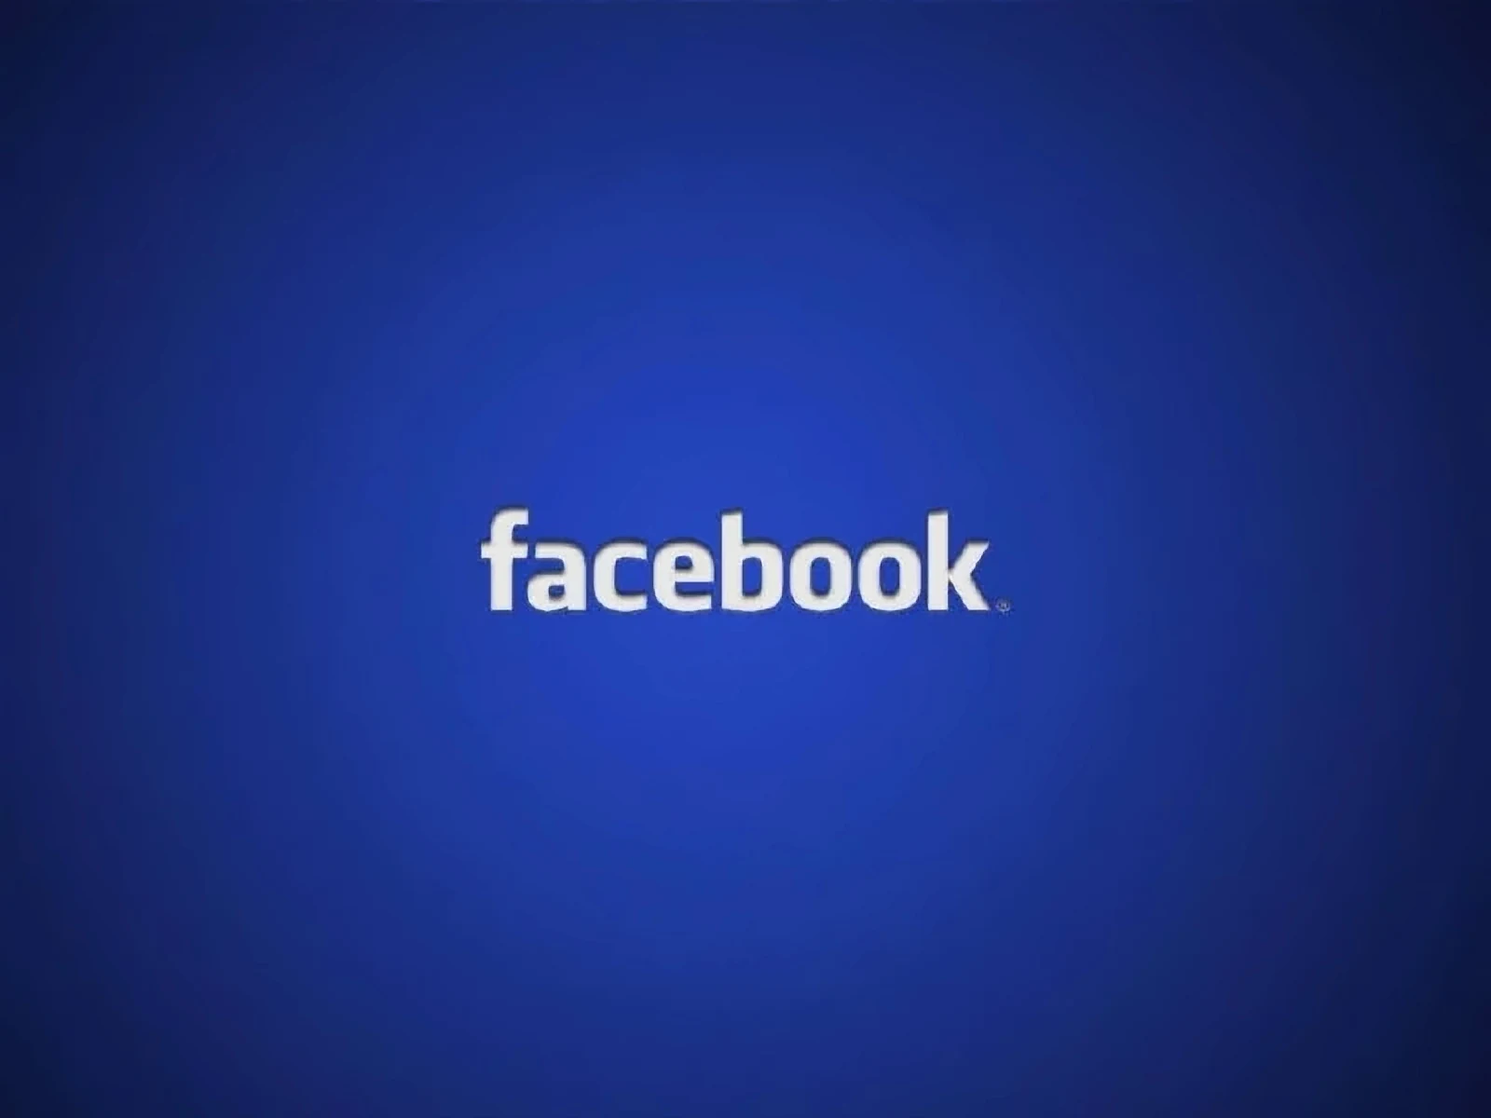
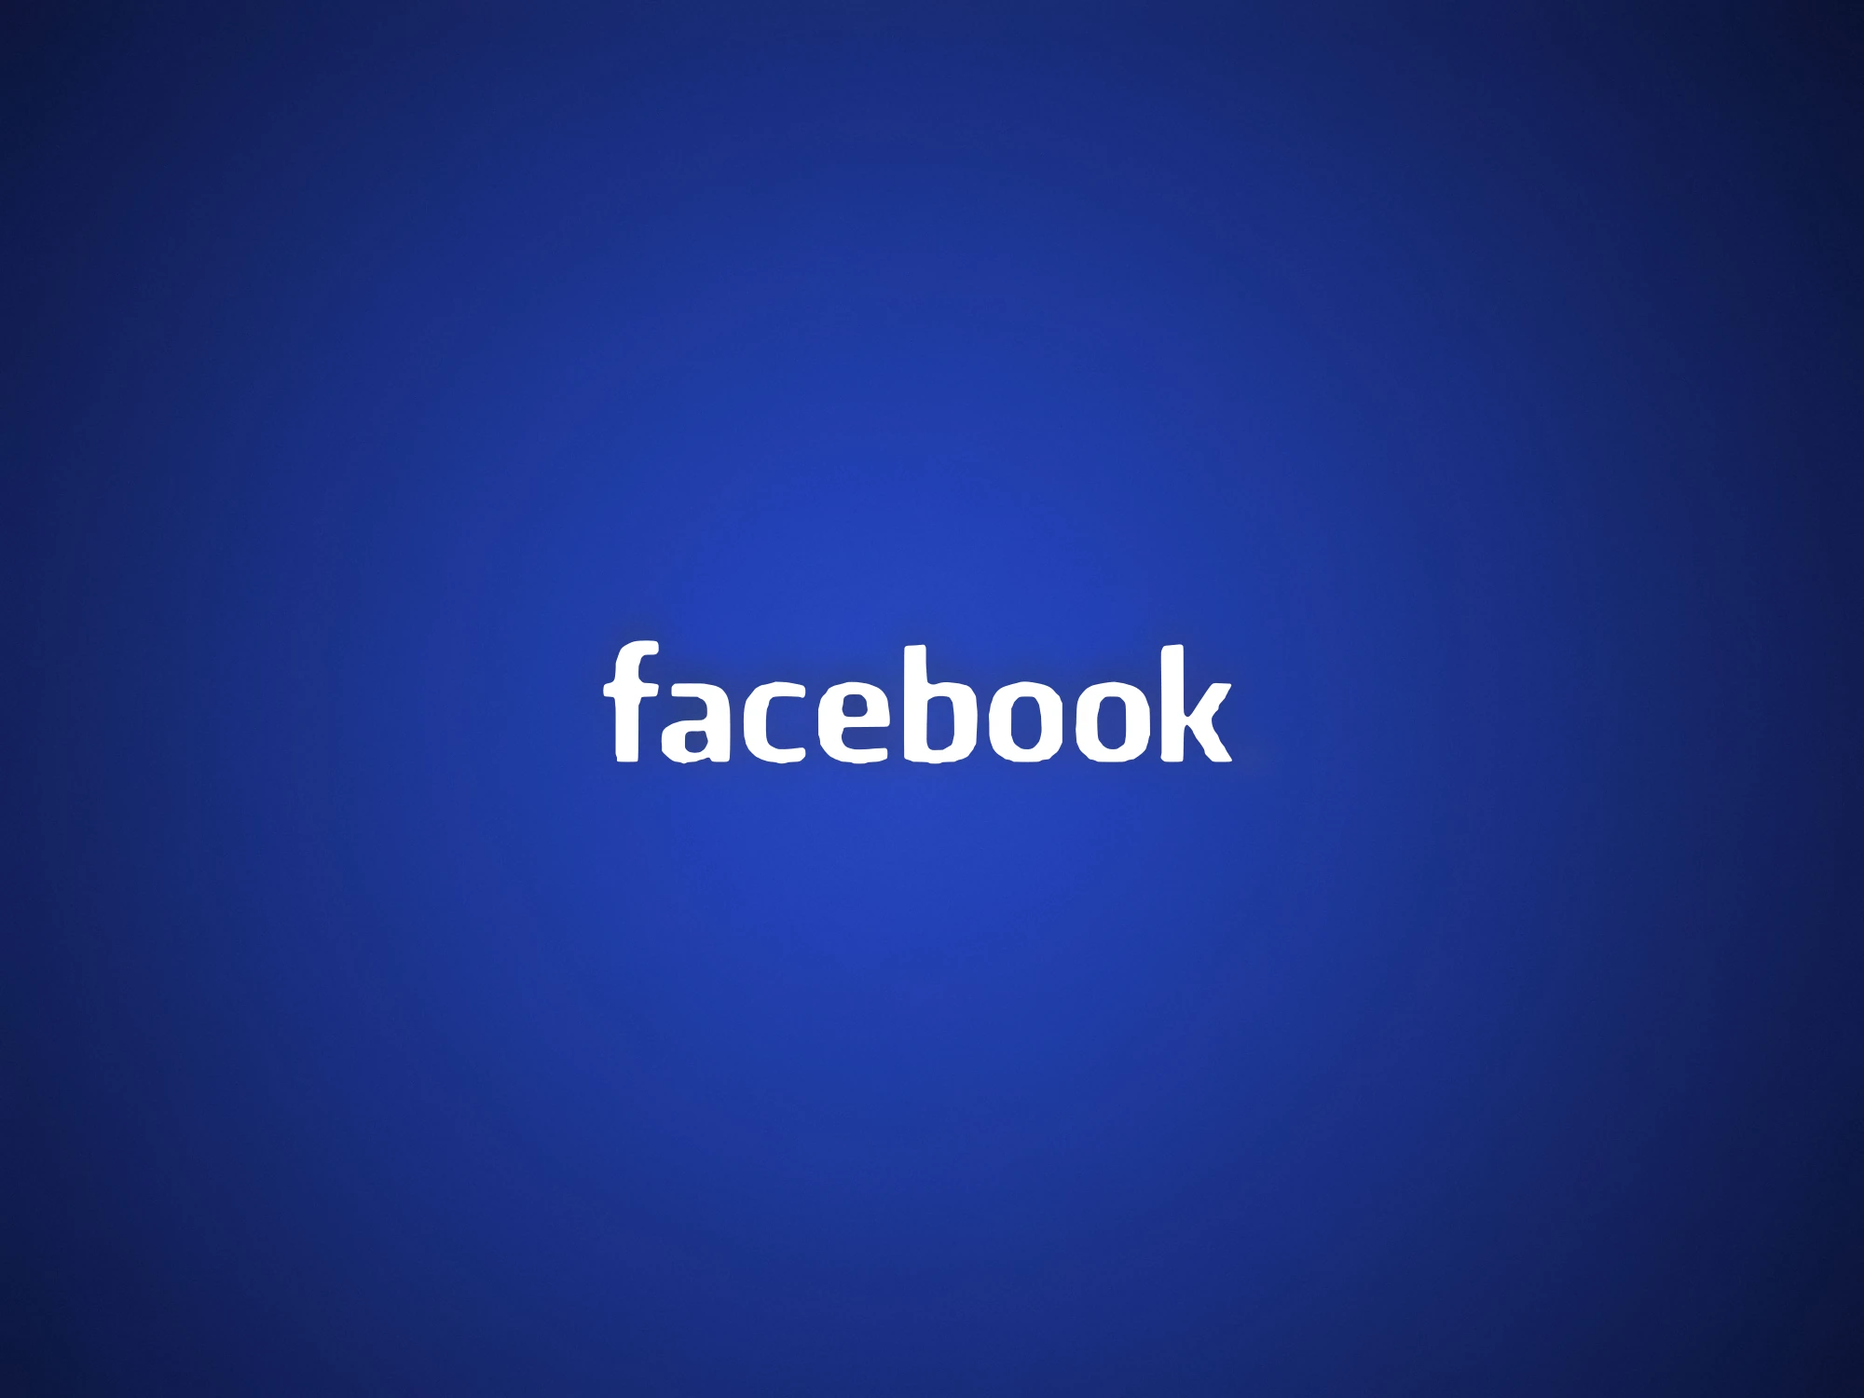
Notas: portadas de Meta y Facebook reconstruidas en limpio a 2000px
Claude-Session: https://claude.ai/code/session_01CMfY411TaWJhc4sofPayks

Changed region(s): [[0.3125, 0.4317, 0.6875, 0.555]]

diff --git a/posts.js b/posts.js
@@ -5,8 +5,8 @@
    img: imagen de portada dentro de assets/
    b: párrafos de la nota completa */
 window.POSTS=[
-  {"id": "meta-muse-wonder-ia", "k": "Noticias", "c": "#FF9D00", "d": "14 oct 2026", "img": "assets/work/nota-meta-muse-wonder-ia-foto500286060.webp?v=hq", "alt": "Portada de La Guayaba Ilustrada sobre el lanzamiento de Muse Wonder de Meta", "cr": "Foto: La Guayaba Ilustrada", "t": "Meta lanza Muse Wonder, su IA más potente, y apuesta por una que te recuerde", "x": "La empresa de Instagram y WhatsApp presentó dos modelos nuevos que prometen resolver tareas largas y acordarse de lo que le importa a cada usuario.", "b": ["Meta presentó el lunes 12 de octubre Muse Wonder y Muse Wonder Full, los dos modelos de inteligencia artificial más avanzados que ha lanzado hasta ahora. Los desarrolló su laboratorio de superinteligencia y son los que moverán a Muse, el agente personal que la compañía estrenó en septiembre en Estados Unidos.", "La gran apuesta es la memoria. Meta asegura que estos modelos retienen y conectan lo que el usuario les va contando, y que pueden sostener trabajos largos, incluso de varios días. Según pruebas publicadas por la propia empresa, Muse Wonder alcanza a los modelos más fuertes del mercado y los supera en una evaluación de memoria, aunque esas cifras todavía no tienen verificación independiente.", "Para desarrolladores, Muse Wonder cuesta 4 dólares por millón de tokens de entrada y 20 por millón de salida a través de la API de Meta, un precio similar al de sus principales competidores, de acuerdo con TechCrunch. La versión Full queda reservada para suscriptores de Muse Code.", "No todo es entusiasmo. Social Media Today recordó el caso de un usuario en Toronto que dejó que el agente gestionara una venta en Facebook Marketplace y terminó compartiendo la dirección de su casa sin darse cuenta. La duda de fondo es cuánta información personal estaremos dispuestos a confiarle a una IA de Meta.", "Por ahora, Muse funciona solo en Estados Unidos para mayores de 18 años, en iOS, Android y WhatsApp. Meta no ha dado fecha para su llegada a México, según Expansión.", "Para tu marca: si Muse llega a México, tus clientes podrían pedirle a un agente que compare, reserve o compre por ellos dentro de WhatsApp e Instagram. Las marcas con perfiles completos, información clara y contenido constante serán las más fáciles de recomendar. Es buen momento para revisar que tu catálogo, horarios y precios estén actualizados en redes."], "src": "https://techcrunch.com/2026/10/12/meta-releases-its-first-frontier-model-muse-wonder", "sn": "Con información de TechCrunch"},
-  {"id": "apple-homeview-mexico", "k": "Noticias", "c": "#FF9D00", "d": "14 oct 2026", "img": "assets/work/nota-apple-homeview-mexico-foto500286057.webp?v=hq", "alt": "Portada de La Guayaba Ilustrada sobre Apple HomeView", "cr": "Foto: La Guayaba Ilustrada", "t": "Apple lanza HomeView, su pantalla para el hogar, pero no llega a México", "x": "Es la respuesta de Apple a Alexa: una pantalla de 7 pulgadas con Siri renovada por IA que controla la casa.", "b": ["Apple presentó el 13 de octubre HomeView, una pantalla inteligente para el hogar que funciona como centro de control de la casa, reproductor de música y equipo para videollamadas. La preventa arrancó ese mismo día en Estados Unidos, Canadá, Reino Unido y Australia, entre otros países, y las entregas comienzan el 13 de noviembre. Su precio es de 299 dólares.", "El equipo tiene una pantalla de 7 pulgadas, cámara de 12 megapíxeles con encuadre automático para FaceTime y reconoce el rostro de hasta seis personas de la casa para mostrar a cada quien su propia información. Viene en versión de mesa, en cuatro colores, y en versión para pared. Funciona con la nueva Siri con inteligencia artificial, que se apoya en el contexto de los iPhone conectados a la misma red.", "El movimiento pone a Apple de frente contra Amazon y Google, que llevan años vendiendo pantallas como Echo Show y Nest Hub. A diferencia de ellas, HomeView no tendrá tienda de apps: solo trae las de Apple y algunas de música y video de otras marcas.", "La mala noticia para México: no está en la lista de países del lanzamiento y Apple no ha dado fecha ni precio en pesos. Medios como Xataka México señalan que la nueva Siri por ahora funciona principalmente en inglés, lo que limita su llegada a otros mercados. Como referencia, Merca2.0 calcula que su precio rondaría los 5,400 pesos antes de impuestos, aunque no es una cifra oficial.", "Para tu marca: las pantallas del hogar con IA cambian la forma en que la gente busca y compra; cada vez más preguntas se harán por voz y no en un buscador. Si tienes un negocio local, empieza a cuidar que tu información esté completa y clara en Google, Apple Maps y tus redes, porque es de ahí de donde estos asistentes toman las respuestas."], "src": "https://www.xataka.com.mx/home/apple-homeview-lanzamiento-precio-mexico-caracteristicas-especificaciones-ficha-tecnica", "sn": "Con información de Xataka México"},
-  {"id": "pinterest-disena-la-salida", "k": "Tendencias", "c": "#FF3674", "d": "14 oct 2026", "img": "assets/work/nota-pinterest-disena-la-salida-foto500286054.webp?v=hq", "alt": "Portada de La Guayaba Ilustrada con el titular sobre la guía Design the Exit de Pinterest", "cr": "Foto: La Guayaba Ilustrada", "t": "Pinterest pide a las marcas algo raro: dejar que su audiencia se vaya del celular", "x": "Su nueva guía, Design the Exit, propone dejar de pelear por el scroll y ayudar a la gente a actuar en su vida real.", "b": ["Pinterest publicó esta semana una guía de marketing llamada Design the Exit, en la que invita a las marcas a dejar de diseñar contenido para retener a la gente frente a la pantalla y, en cambio, ayudarla a encontrar rápido lo que busca para que siga con su día. La plataforma ya había presentado la idea en septiembre en DMEXCO, la feria de marketing digital de Colonia, Alemania, en una charla de Greg Owens, su vicepresidente internacional.", "El argumento parte de un cansancio que Pinterest asegura ver en sus datos. Según cifras que cita la compañía, 40% de la Generación Z dice que preferiría que las redes sociales nunca se hubieran inventado y 63% de los adultos de esa generación quiere desconectarse de forma más intencional. En su buscador, consultas como \"cosas que hacer en lugar de scrollear\" crecieron 365% en un año, \"estética análoga\" 260% y \"dumb phone\" (teléfonos básicos) 150%.", "La empresa sostiene que la mayoría de las redes están construidas para mantener al usuario deslizando sin fin, porque así venden más anuncios, y que en ese estado la publicidad suele ignorarse. Cuando el uso es más intencional, dice Pinterest, las marcas tienen más probabilidad de ser recordadas, de generar confianza y de terminar en una compra.", "Sus recomendaciones son concretas: mostrar los valores de la marca y el efecto real de sus productos en la vida de las personas, presentar lo que vendes como un camino claro hacia una meta personal y no atrapar a la gente en la experiencia una vez que ya encontró lo que necesitaba. Vale tomarlo con contexto: Pinterest lleva tiempo posicionándose como una herramienta de descubrimiento y no como una red social más, así que la guía también es una forma de venderse frente a sus competidores.", "Para tu marca: en lugar de medir solo cuánto tiempo pasa la gente viendo tu contenido, pregúntate qué hace después. Un post que resuelve una duda, da un paso a paso o lleva a una visita, una reserva o una compra puede valer más que uno que solo entretiene. Diseña cada pieza con una salida clara: qué quieres que la persona haga cuando cierre la app."], "src": "https://www.socialmediatoday.com/news/pinterest-asks-brands-to-send-people-back-into-their-life/832922/", "sn": "Con información de Social Media Today"},
-  {"id": "facebook-algoritmo-con-tus-palabras", "k": "Noticias", "c": "#FF9D00", "d": "14 oct 2026", "img": "assets/work/nota-facebook-algoritmo-con-tus-palabras-foto500286053.webp?v=hq", "alt": "Portada naranja de La Guayaba Ilustrada con el titular sobre el nuevo control del algoritmo de Facebook", "cr": "Foto: La Guayaba Ilustrada", "t": "Facebook ya te deja decirle a su algoritmo, con tus palabras, qué quieres ver", "x": "La nueva versión de Your Algorithm usa IA para ajustar el Feed y los Reels según lo que el usuario le escribe.", "b": ["Meta anunció esta semana una actualización de Your Algorithm en Facebook, una herramienta que permite a cada usuario escribir en lenguaje natural qué temas quiere ver más y cuáles menos en su Feed y en Reels. Según la compañía, los cambios se aplican al momento y las recomendaciones se ajustan en tiempo real.", "Se entra desde el menú de tres puntos de cualquier publicación. Ahí aparece una lista con los intereses que Facebook cree que tienes, que puedes editar, y otra con los temas que prefieres no ver. Además, cuando marcas una publicación como Me interesa o No me interesa, la plataforma puede hacerte preguntas para que expliques qué te gustó o qué no.", "Meta explica que detrás hay modelos de lenguaje capaces de entender el contexto y la intención de lo que escribe el usuario, y no solo sus clics. La empresa describe la función como un espacio para decirle exactamente qué te interesa. Hasta ahora no ha detallado en qué países estará disponible primero.", "El movimiento sigue una tendencia clara: Instagram ya tiene su propio Your Algorithm, Threads ofrece una herramienta parecida y YouTube y X también han probado asistentes para ajustar recomendaciones. Medios especializados como Social Media Today señalan que la gran duda es cuántas personas realmente usarán estos controles, porque la mayoría rara vez cambia su configuración.", "Para tu marca: si la gente puede pedirle a Facebook que le muestre menos de ciertos temas, el contenido genérico o demasiado vendedor corre más riesgo de quedar fuera. Define bien de qué habla tu negocio, publica con constancia sobre esos temas y cuida que cada pieza aporte algo útil o entretenido. Lo que la gente elige ver es más valioso que lo que el algoritmo le empuja."], "src": "https://www.socialmediatoday.com/news/facebook-adds-plain-language-algorithm-controls/832910/", "sn": "Con información de Social Media Today", "g": ["assets/work/nota-facebook-algoritmo-con-tus-palabras-foto500286061.webp?v=hq"]},
+  {"id": "meta-muse-wonder-ia", "k": "Noticias", "c": "#FF9D00", "d": "14 oct 2026", "img": "assets/work/nota-meta-muse-wonder-ia-foto500286060.webp?v=hq2", "alt": "Portada de La Guayaba Ilustrada sobre el lanzamiento de Muse Wonder de Meta", "cr": "Foto: La Guayaba Ilustrada", "t": "Meta lanza Muse Wonder, su IA más potente, y apuesta por una que te recuerde", "x": "La empresa de Instagram y WhatsApp presentó dos modelos nuevos que prometen resolver tareas largas y acordarse de lo que le importa a cada usuario.", "b": ["Meta presentó el lunes 12 de octubre Muse Wonder y Muse Wonder Full, los dos modelos de inteligencia artificial más avanzados que ha lanzado hasta ahora. Los desarrolló su laboratorio de superinteligencia y son los que moverán a Muse, el agente personal que la compañía estrenó en septiembre en Estados Unidos.", "La gran apuesta es la memoria. Meta asegura que estos modelos retienen y conectan lo que el usuario les va contando, y que pueden sostener trabajos largos, incluso de varios días. Según pruebas publicadas por la propia empresa, Muse Wonder alcanza a los modelos más fuertes del mercado y los supera en una evaluación de memoria, aunque esas cifras todavía no tienen verificación independiente.", "Para desarrolladores, Muse Wonder cuesta 4 dólares por millón de tokens de entrada y 20 por millón de salida a través de la API de Meta, un precio similar al de sus principales competidores, de acuerdo con TechCrunch. La versión Full queda reservada para suscriptores de Muse Code.", "No todo es entusiasmo. Social Media Today recordó el caso de un usuario en Toronto que dejó que el agente gestionara una venta en Facebook Marketplace y terminó compartiendo la dirección de su casa sin darse cuenta. La duda de fondo es cuánta información personal estaremos dispuestos a confiarle a una IA de Meta.", "Por ahora, Muse funciona solo en Estados Unidos para mayores de 18 años, en iOS, Android y WhatsApp. Meta no ha dado fecha para su llegada a México, según Expansión.", "Para tu marca: si Muse llega a México, tus clientes podrían pedirle a un agente que compare, reserve o compre por ellos dentro de WhatsApp e Instagram. Las marcas con perfiles completos, información clara y contenido constante serán las más fáciles de recomendar. Es buen momento para revisar que tu catálogo, horarios y precios estén actualizados en redes."], "src": "https://techcrunch.com/2026/10/12/meta-releases-its-first-frontier-model-muse-wonder", "sn": "Con información de TechCrunch"},
+  {"id": "apple-homeview-mexico", "k": "Noticias", "c": "#FF9D00", "d": "14 oct 2026", "img": "assets/work/nota-apple-homeview-mexico-foto500286057.webp?v=hq2", "alt": "Portada de La Guayaba Ilustrada sobre Apple HomeView", "cr": "Foto: La Guayaba Ilustrada", "t": "Apple lanza HomeView, su pantalla para el hogar, pero no llega a México", "x": "Es la respuesta de Apple a Alexa: una pantalla de 7 pulgadas con Siri renovada por IA que controla la casa.", "b": ["Apple presentó el 13 de octubre HomeView, una pantalla inteligente para el hogar que funciona como centro de control de la casa, reproductor de música y equipo para videollamadas. La preventa arrancó ese mismo día en Estados Unidos, Canadá, Reino Unido y Australia, entre otros países, y las entregas comienzan el 13 de noviembre. Su precio es de 299 dólares.", "El equipo tiene una pantalla de 7 pulgadas, cámara de 12 megapíxeles con encuadre automático para FaceTime y reconoce el rostro de hasta seis personas de la casa para mostrar a cada quien su propia información. Viene en versión de mesa, en cuatro colores, y en versión para pared. Funciona con la nueva Siri con inteligencia artificial, que se apoya en el contexto de los iPhone conectados a la misma red.", "El movimiento pone a Apple de frente contra Amazon y Google, que llevan años vendiendo pantallas como Echo Show y Nest Hub. A diferencia de ellas, HomeView no tendrá tienda de apps: solo trae las de Apple y algunas de música y video de otras marcas.", "La mala noticia para México: no está en la lista de países del lanzamiento y Apple no ha dado fecha ni precio en pesos. Medios como Xataka México señalan que la nueva Siri por ahora funciona principalmente en inglés, lo que limita su llegada a otros mercados. Como referencia, Merca2.0 calcula que su precio rondaría los 5,400 pesos antes de impuestos, aunque no es una cifra oficial.", "Para tu marca: las pantallas del hogar con IA cambian la forma en que la gente busca y compra; cada vez más preguntas se harán por voz y no en un buscador. Si tienes un negocio local, empieza a cuidar que tu información esté completa y clara en Google, Apple Maps y tus redes, porque es de ahí de donde estos asistentes toman las respuestas."], "src": "https://www.xataka.com.mx/home/apple-homeview-lanzamiento-precio-mexico-caracteristicas-especificaciones-ficha-tecnica", "sn": "Con información de Xataka México"},
+  {"id": "pinterest-disena-la-salida", "k": "Tendencias", "c": "#FF3674", "d": "14 oct 2026", "img": "assets/work/nota-pinterest-disena-la-salida-foto500286054.webp?v=hq2", "alt": "Portada de La Guayaba Ilustrada con el titular sobre la guía Design the Exit de Pinterest", "cr": "Foto: La Guayaba Ilustrada", "t": "Pinterest pide a las marcas algo raro: dejar que su audiencia se vaya del celular", "x": "Su nueva guía, Design the Exit, propone dejar de pelear por el scroll y ayudar a la gente a actuar en su vida real.", "b": ["Pinterest publicó esta semana una guía de marketing llamada Design the Exit, en la que invita a las marcas a dejar de diseñar contenido para retener a la gente frente a la pantalla y, en cambio, ayudarla a encontrar rápido lo que busca para que siga con su día. La plataforma ya había presentado la idea en septiembre en DMEXCO, la feria de marketing digital de Colonia, Alemania, en una charla de Greg Owens, su vicepresidente internacional.", "El argumento parte de un cansancio que Pinterest asegura ver en sus datos. Según cifras que cita la compañía, 40% de la Generación Z dice que preferiría que las redes sociales nunca se hubieran inventado y 63% de los adultos de esa generación quiere desconectarse de forma más intencional. En su buscador, consultas como \"cosas que hacer en lugar de scrollear\" crecieron 365% en un año, \"estética análoga\" 260% y \"dumb phone\" (teléfonos básicos) 150%.", "La empresa sostiene que la mayoría de las redes están construidas para mantener al usuario deslizando sin fin, porque así venden más anuncios, y que en ese estado la publicidad suele ignorarse. Cuando el uso es más intencional, dice Pinterest, las marcas tienen más probabilidad de ser recordadas, de generar confianza y de terminar en una compra.", "Sus recomendaciones son concretas: mostrar los valores de la marca y el efecto real de sus productos en la vida de las personas, presentar lo que vendes como un camino claro hacia una meta personal y no atrapar a la gente en la experiencia una vez que ya encontró lo que necesitaba. Vale tomarlo con contexto: Pinterest lleva tiempo posicionándose como una herramienta de descubrimiento y no como una red social más, así que la guía también es una forma de venderse frente a sus competidores.", "Para tu marca: en lugar de medir solo cuánto tiempo pasa la gente viendo tu contenido, pregúntate qué hace después. Un post que resuelve una duda, da un paso a paso o lleva a una visita, una reserva o una compra puede valer más que uno que solo entretiene. Diseña cada pieza con una salida clara: qué quieres que la persona haga cuando cierre la app."], "src": "https://www.socialmediatoday.com/news/pinterest-asks-brands-to-send-people-back-into-their-life/832922/", "sn": "Con información de Social Media Today"},
+  {"id": "facebook-algoritmo-con-tus-palabras", "k": "Noticias", "c": "#FF9D00", "d": "14 oct 2026", "img": "assets/work/nota-facebook-algoritmo-con-tus-palabras-foto500286053.webp?v=hq2", "alt": "Portada naranja de La Guayaba Ilustrada con el titular sobre el nuevo control del algoritmo de Facebook", "cr": "Foto: La Guayaba Ilustrada", "t": "Facebook ya te deja decirle a su algoritmo, con tus palabras, qué quieres ver", "x": "La nueva versión de Your Algorithm usa IA para ajustar el Feed y los Reels según lo que el usuario le escribe.", "b": ["Meta anunció esta semana una actualización de Your Algorithm en Facebook, una herramienta que permite a cada usuario escribir en lenguaje natural qué temas quiere ver más y cuáles menos en su Feed y en Reels. Según la compañía, los cambios se aplican al momento y las recomendaciones se ajustan en tiempo real.", "Se entra desde el menú de tres puntos de cualquier publicación. Ahí aparece una lista con los intereses que Facebook cree que tienes, que puedes editar, y otra con los temas que prefieres no ver. Además, cuando marcas una publicación como Me interesa o No me interesa, la plataforma puede hacerte preguntas para que expliques qué te gustó o qué no.", "Meta explica que detrás hay modelos de lenguaje capaces de entender el contexto y la intención de lo que escribe el usuario, y no solo sus clics. La empresa describe la función como un espacio para decirle exactamente qué te interesa. Hasta ahora no ha detallado en qué países estará disponible primero.", "El movimiento sigue una tendencia clara: Instagram ya tiene su propio Your Algorithm, Threads ofrece una herramienta parecida y YouTube y X también han probado asistentes para ajustar recomendaciones. Medios especializados como Social Media Today señalan que la gran duda es cuántas personas realmente usarán estos controles, porque la mayoría rara vez cambia su configuración.", "Para tu marca: si la gente puede pedirle a Facebook que le muestre menos de ciertos temas, el contenido genérico o demasiado vendedor corre más riesgo de quedar fuera. Define bien de qué habla tu negocio, publica con constancia sobre esos temas y cuida que cada pieza aporte algo útil o entretenido. Lo que la gente elige ver es más valioso que lo que el algoritmo le empuja."], "src": "https://www.socialmediatoday.com/news/facebook-adds-plain-language-algorithm-controls/832910/", "sn": "Con información de Social Media Today", "g": ["assets/work/nota-facebook-algoritmo-con-tus-palabras-foto500286061.webp?v=hq2"]},
 ];
